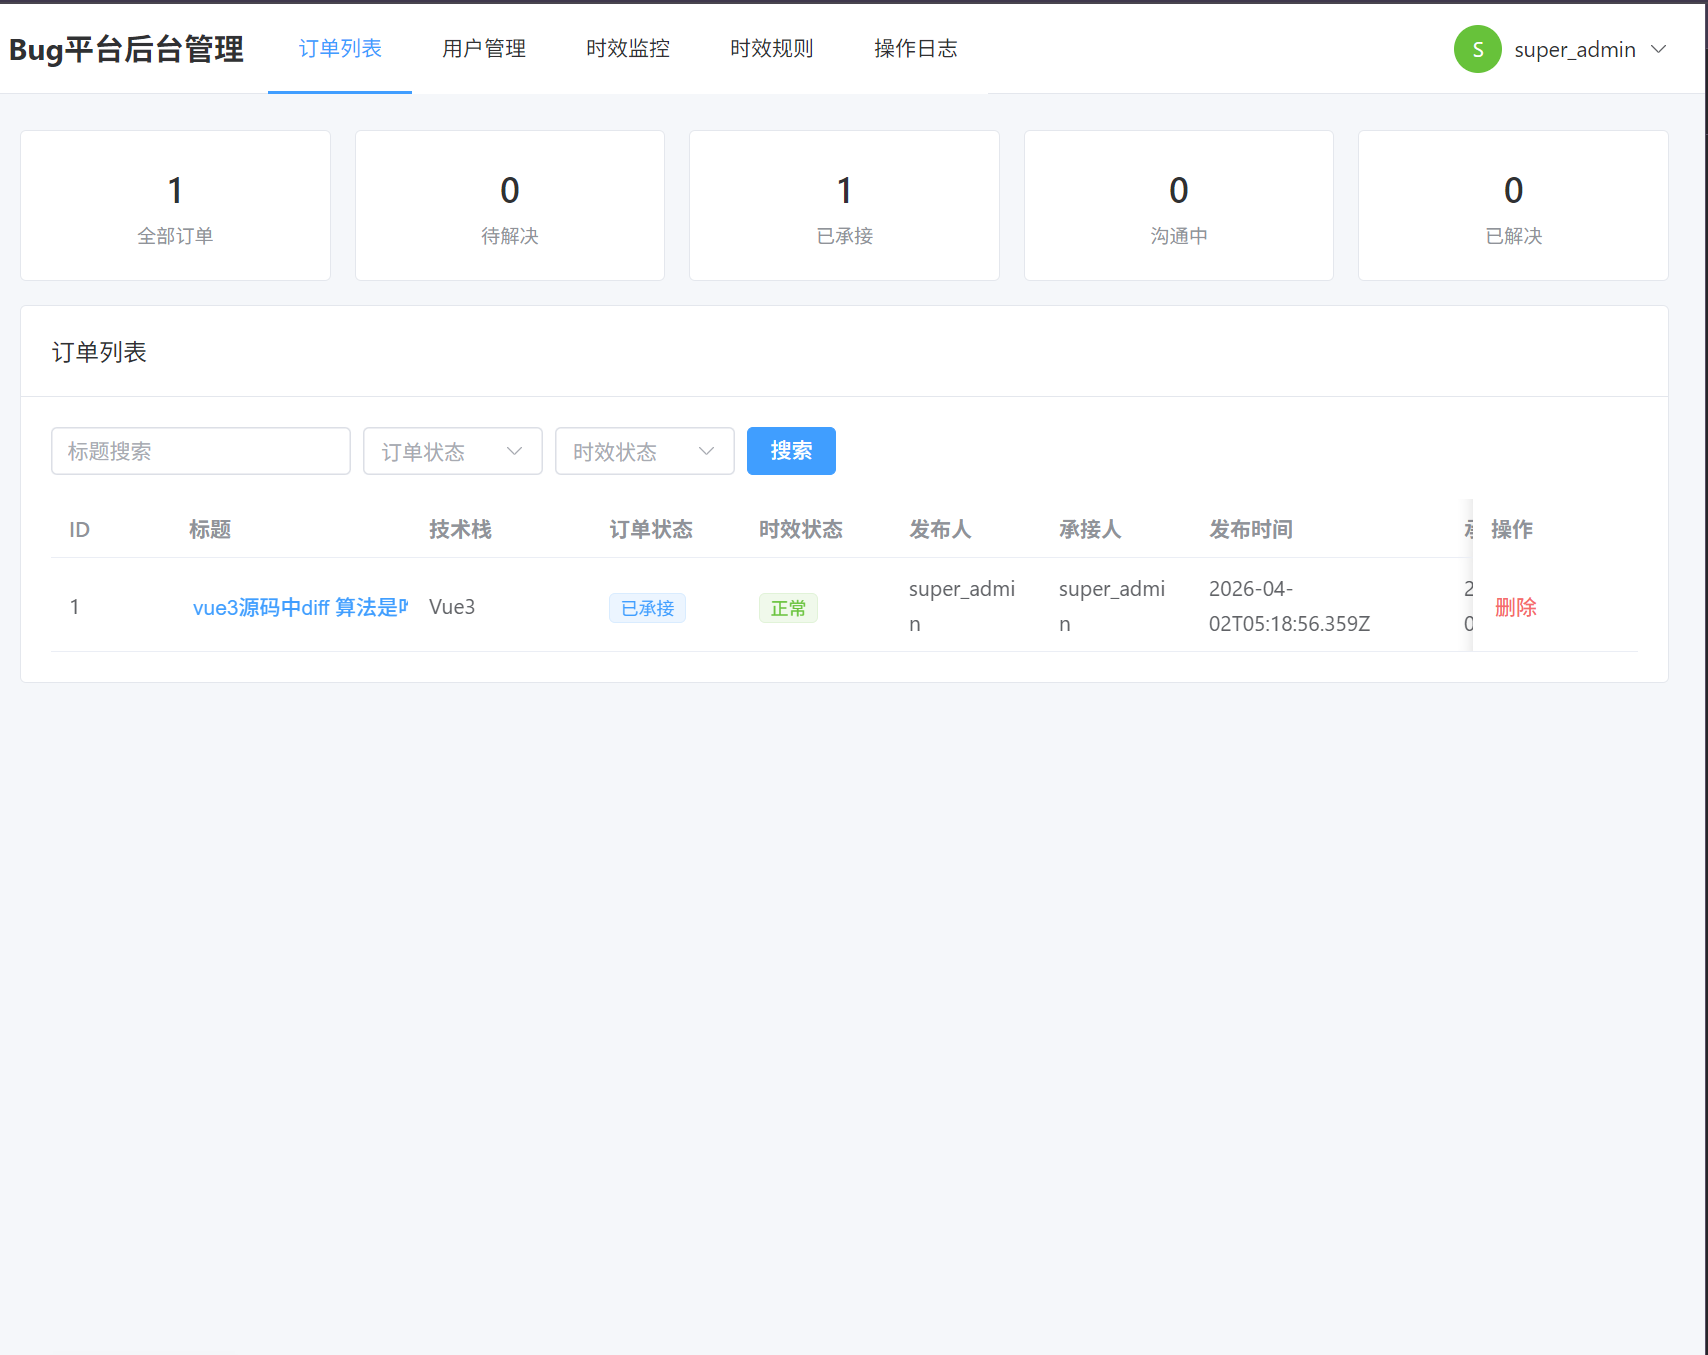
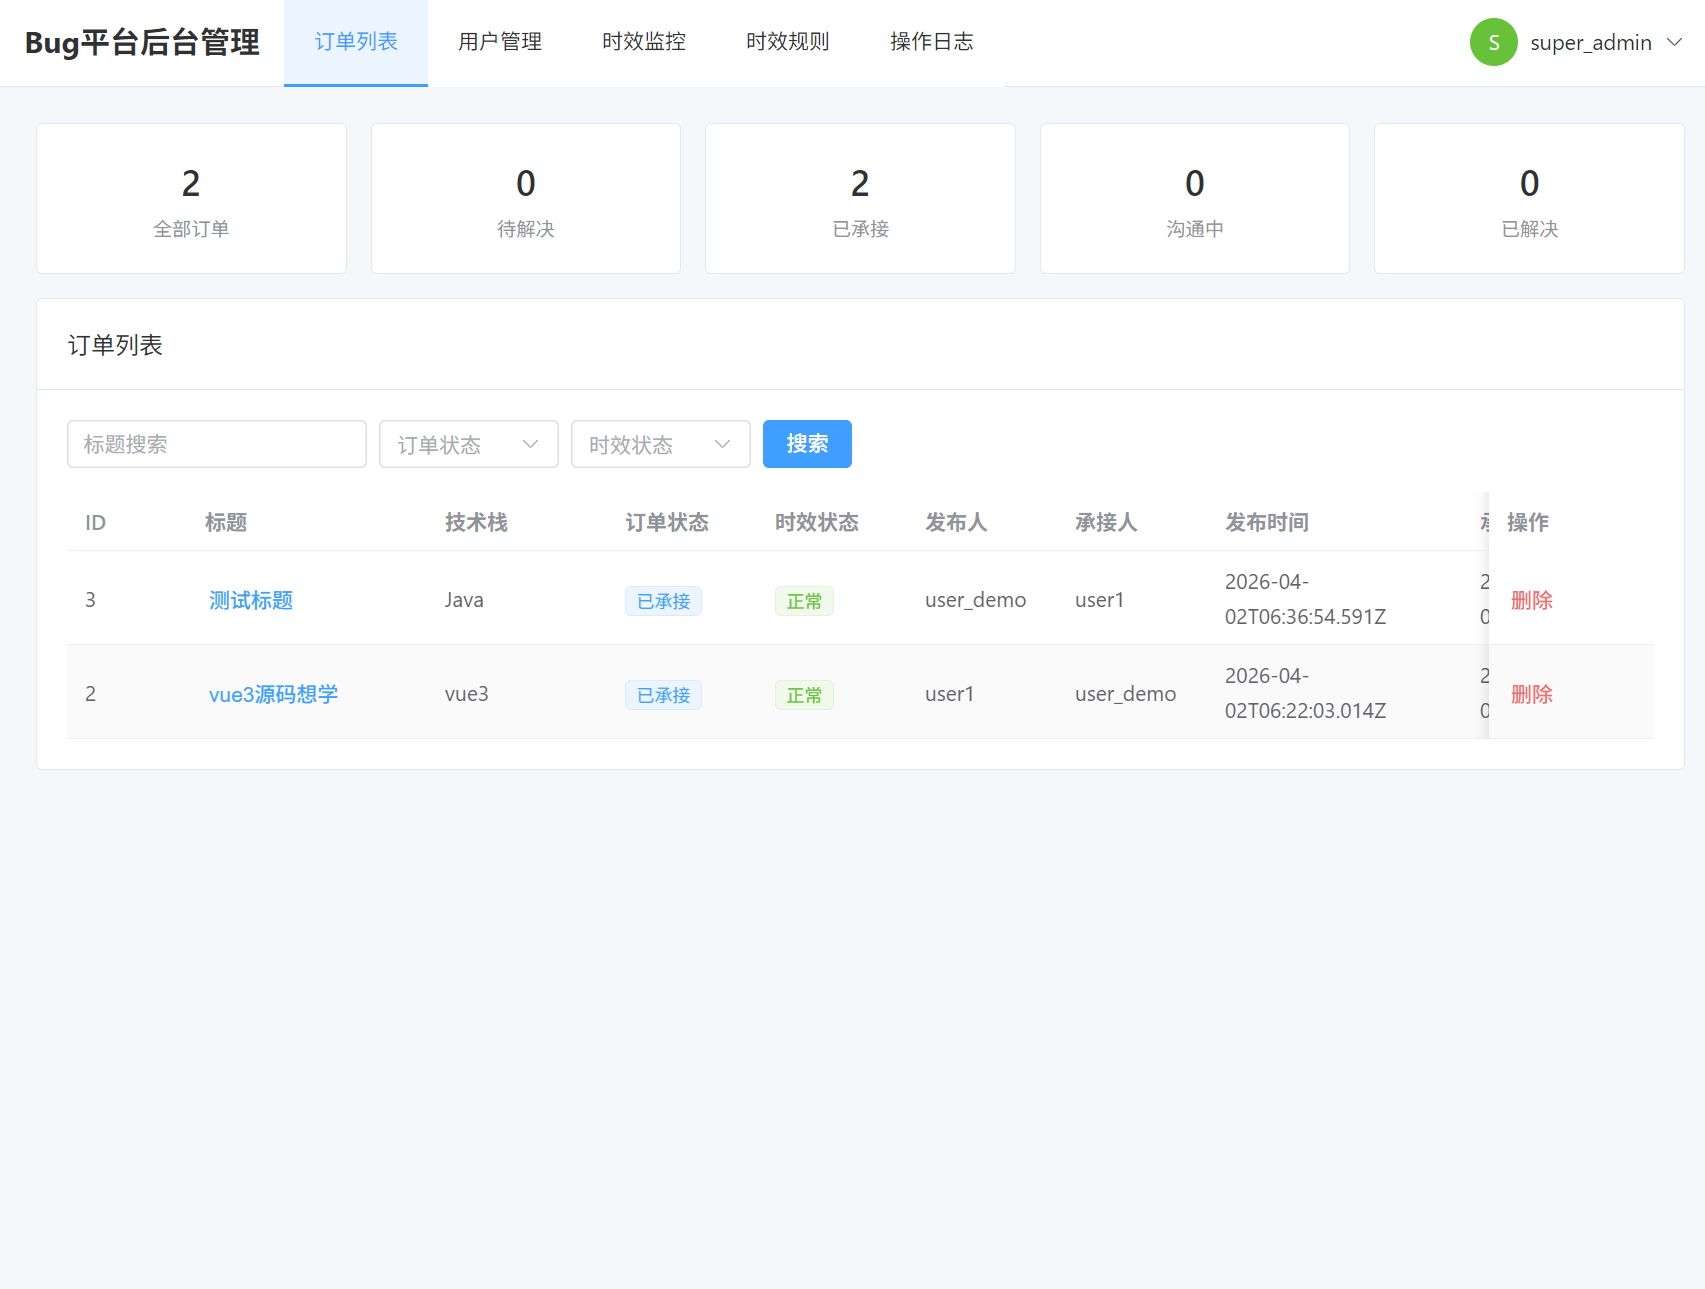
feat: any docx

diff --git a/packages/fe-admin/src/views/OrderList.vue b/packages/fe-admin/src/views/OrderList.vue
@@ -9,7 +9,7 @@ import { ElMessage, ElMessageBox } from 'element-plus'
 const list = ref<AdminOrderItem[]>([])
 const total = ref(0)
 const page = ref(1)
-const pageSize = ref(20)
+const pageSize = ref(5)
 const loading = ref(false)
 const keyword = ref('')
 const statusFilter = ref<number | ''>('')

diff --git a/packages/fe-admin/src/views/LogList.vue b/packages/fe-admin/src/views/LogList.vue
@@ -7,7 +7,7 @@ import { OperationType } from '@bug/shared'
 const list = ref<OperationLogItem[]>([])
 const total = ref(0)
 const page = ref(1)
-const pageSize = ref(20)
+const pageSize = ref(5)
 const loading = ref(false)
 const bugIdFilter = ref('')
 const operatorIdFilter = ref<number | ''>('')

diff --git a/essay/2026-04-02-defense.md b/essay/2026-04-02-defense.md
@@ -1,0 +1,201 @@
+# 面向开发者的 Bug 协作平台（答辩稿）
+
+> 学生：曹黎明  
+> 专业：计算机科学与技术  
+> 题目：面向开发者的 bug 协作平台的设计开发
+
+---
+
+## 1. 开场（30 秒）
+
+各位老师好，我的毕业设计题目是《面向开发者的 bug 协作平台的设计开发》。  
+本项目聚焦一个现实痛点：开发者在跨项目 Bug 处理时，常出现匹配效率低、经验难复用、线上沟通难落地的问题。  
+我实现了一个“用户端 + 管理端 + 后端服务 + 共享包”的完整平台，并围绕“线上匹配 + 线下协作 + 人工运营”进行了工程化落地。
+
+---
+
+## 2. 研究背景与目标（1 分钟）
+
+### 2.1 背景问题
+
+- 现有工具（如 Issues）更偏项目内协作，不适合跨项目 Bug 对接。
+- 纯社区问答缺少状态流转、承接关系和时效治理。
+- 线上沟通无法覆盖真实调试场景，落地效率偏低。
+
+### 2.2 本项目目标
+
+- 让用户可以发布、承接、跟进 Bug；
+- 让管理员可以做时效治理、人工介入、日志审计；
+- 保证系统在可维护、可扩展的前提下可落地运营。
+
+---
+
+## 3. 系统总体方案（2 分钟）
+
+### 3.1 技术架构
+
+- 前端：Vue3 + Vite + Pinia + Vue Router  
+- 后端：NestJS + TypeORM + MySQL + JWT  
+- 工程化：pnpm + Turbo（monorepo）  
+- 共享层：`@bug/shared` 统一类型、枚举和响应结构
+
+### 3.2 多端职责
+
+- `fe-h5`：普通用户侧，负责发布/承接/列表/详情/个人中心  
+- `fe-admin`：运营治理侧，负责订单监管、用户管理、时效规则、操作日志  
+- `be-main`：统一业务服务层，提供 API、鉴权、定时任务与数据持久化
+
+### 3.3 为什么采用 monorepo
+
+- 前后端共享类型，降低联调成本；
+- 多包统一依赖与构建，改动链路更清晰；
+- 便于后续扩展新端或新模块。
+
+---
+
+## 4. 核心业务流程（2 分钟）
+
+### 4.1 用户侧（H5）
+
+1. 登录并获得 JWT；  
+2. 发布 Bug（标题、技术栈、描述、预期效果）；  
+3. 其他用户承接（仅 `PENDING` 可承接）；  
+4. 进入沟通状态并更新进度；  
+5. 形成“我发布的/我承接的”闭环记录。
+
+### 4.2 管理侧（Admin）
+
+1. 管理员登录并进入后台；  
+2. 查看订单列表与时效状态；  
+3. 配置时效规则（预警/超期小时）；  
+4. 对异常订单做人工介入；  
+5. 在操作日志中完成审计追踪。
+
+### 4.3 风控闭环
+
+- 定时任务每 5 分钟扫描符合规则的订单；
+- 将订单标记为正常/预警/超期；
+- 运营按状态集中处理，关键操作全留痕。
+
+---
+
+## 5. 关键实现亮点（3 分钟）
+
+### 5.1 鉴权与权限分层
+
+- JWT 无状态鉴权，前端统一携带 `Authorization: Bearer <token>`；
+- 后端 `JwtStrategy + Guard` 完成身份校验；
+- `RolesGuard` 完成角色级权限控制（`USER` / `ADMIN` / `SUPER_ADMIN`）。
+
+### 5.2 Bug 列表高效筛选
+
+- 支持技术栈、状态、时效状态、关键词、分页组合筛选；
+- 采用 TypeORM QueryBuilder 动态拼接条件；
+- 对高频字段建立索引，保障查询性能。
+
+### 5.3 时效监控任务
+
+- 基于 `@nestjs/schedule` 定时执行；
+- 规则配置化（`warnHour`、`expireHour`）；
+- 自动计算并更新 `time_status`，支撑运营治理。
+
+### 5.4 可追溯审计
+
+- 发布、承接、状态变更、人工介入等关键动作写入 `operation_log`；
+- 支持按操作人、类型、时间筛选；
+- 满足后续纠纷处理和运营审计需求。
+
+---
+
+## 6. 数据库设计（1 分钟）
+
+核心表共 4 张：
+
+- `user`：账号、角色、状态、联系方式  
+- `bug`：发布/承接关系、状态、时效状态、备注  
+- `operation_log`：关键操作日志  
+- `time_rule`：时效规则配置
+
+关系特点：
+
+- `user` 与 `bug` 一对多（发布/承接）；
+- `bug` 与 `operation_log` 一对多；
+- `time_rule` 通过状态类型驱动 `bug` 的时效计算。
+
+---
+
+## 7. 测试与结果（1.5 分钟）
+
+### 7.1 测试覆盖
+
+- 功能测试：注册登录、发布承接、状态流转、后台管理；
+- 流程测试：从发布到人工介入全链路；
+- 权限测试：普通用户、管理员、超级管理员边界；
+- 时效测试：预警/超期标记准确性；
+- 性能测试：并发接口与大数据筛选；
+- 兼容性测试：多浏览器与多终端访问。
+
+### 7.2 结果总结
+
+- 核心流程可闭环执行；
+- 权限控制有效；
+- 定时任务稳定运行；
+- 具备上线后的运营治理基础能力。
+
+---
+
+## 8. 创新点与不足（1 分钟）
+
+### 8.1 创新点
+
+- 将“社区匹配 + 人工运营 + 时效治理”融合到同一平台；
+- 不是仅做信息发布，而是做可追踪、可干预的协作闭环；
+- 通过共享包与 monorepo 强化前后端一致性。
+
+### 8.2 当前不足
+
+- 社群联动仍偏人工，自动化通知不足；
+- 数据分析维度还不够深；
+- 生产级高可用架构仍需进一步增强。
+
+---
+
+## 9. 后续工作展望（40 秒）
+
+- 接入微信/QQ 机器人，自动提醒与半自动运营；
+- 引入 Redis 与更细粒度索引优化查询性能；
+- 增加统计看板（承接率、超期率、技术栈热度）；
+- 探索会员制与服务费等商业模式。
+
+---
+
+## 10. 结束语（20 秒）
+
+本项目完成了从需求分析、架构设计到实现测试的全流程实践。  
+通过该课题，我系统掌握了 Vue3 + NestJS 全栈开发、monorepo 工程化和可运营后台设计方法。  
+我的汇报完毕，感谢各位老师指正。
+
+---
+
+## 附：答辩高频问答（可直接背诵）
+
+### Q1：为什么不用微前端？
+
+当前核心目标是“高效复用与快速落地”，monorepo + shared 已满足；微前端更适合多团队独立部署场景，当前阶段引入会增加运行时复杂度与运维成本。
+
+### Q2：为什么选择 NestJS？
+
+NestJS 模块化和依赖注入能力强，便于按 User/Auth/Bug/Admin 拆分；同时与 TypeScript 配合好，适合多人协作和后期维护。
+
+### Q3：时效监控为什么用定时任务，不用实时？
+
+该业务对秒级实时性要求不高，采用“每 5 分钟扫描”可显著降低系统复杂度和资源消耗，并满足运营处理时效。
+
+### Q4：系统安全性如何保证？
+
+采用 JWT 鉴权、角色守卫、参数校验、密码加密存储，并对关键操作进行日志留痕，形成“认证 + 授权 + 审计”三层防护。
+
+### Q5：如果用户量增大，如何扩展？
+
+前端可静态化 + CDN，后端可服务集群化，数据库做主从和读写分离；热点查询可加 Redis 缓存，并继续优化索引与分页策略。
+

diff --git a/essay/2026-04-02.md b/essay/2026-04-02.md
@@ -633,9 +633,13 @@ request.interceptors.response.use(
   状态更新：发布人/承接人可选择“沟通中”“已解决”，POST /api/bug/:id/status 传 UpdateStatusDto（status、可选 operationNote），成功后无刷新更新详情。
   个人 Bug 记录：调用 GET /api/order/my，传参 type=published 或 type=taken 分别获取“我发布的”“我承接的”列表（分页）。
 
-![图7-3-1 用户端 Bug 发布页面截图](./figures/img4.png)
+![图7-3-1 用户端 Bug 发布页面截图](./figures/fe-h5/push-new.png)
 
-![图7-3-2 用户端 Bug 详情与承接页面截图](./figures/img5.png)
+![图7-3-2 用户端 Bug 详情与承接页面截图](./figures/fe-h5/push-detail.png)
+
+![图7-3-3 用户端登录页面截图](./figures/fe-h5/user-login.png)
+
+![图7-3-4 用户端注册页面截图](./figures/fe-h5/user-register.png)
   
 
 ### 7.4 用户端：Bug 列表与筛选
@@ -645,7 +649,7 @@ request.interceptors.response.use(
   后端 BugService.findList 使用 TypeORM 的 where 与 createQueryBuilder 拼接条件，关键词用 LIKE 匹配 title、description，分页用 skip/take，返回 { list, total, page, pageSize }。
   前端用 list 渲染表格，用 total 与 pageSize 渲染分页组件；点击行跳转 /bug/:id 查看详情，详情请求 GET /api/bug/:id 获取完整信息与发布人/承接人，富文本用 v-html 或富文本组件回显。
 
-![图7-4-1 用户端 Bug 列表筛选页面截图](./figures/img6.png)
+![图7-4-1 用户端 Bug 列表筛选页面截图](./figures/fe-h5/market-status.png)
   
 
 ### 7.5 管理端实现
@@ -656,6 +660,10 @@ request.interceptors.response.use(
   用户管理：GET /api/admin/users 分页与筛选，禁用/启用、创建用户、软删除等调用对应接口，敏感操作写操作日志。
   运营日志：GET /api/admin/operation-logs（仅超级管理员），支持按 bugId、操作人、操作类型、开始/结束时间、分页筛选，展示 operator、operationType、operationContent、operationTime。
   时效规则配置：GET /api/admin/time-rules 展示规则列表（含启用/禁用），超级管理员可 POST 新增、PUT 编辑、PUT :id/enable 启用/禁用；定时任务仅处理 is_enable=1 的规则。
+
+![图7-5-1 管理端用户角色管理页面截图](./figures/fe-admin/user-role.png)
+
+![图7-5-2 管理端用户状态管理页面截图](./figures/fe-admin/user-status.png)
 
 管理端权限控制核心代码如下。该逻辑根据路由元信息中的角色列表进行鉴权，实现了页面级访问控制：
 
@@ -684,11 +692,11 @@ router.beforeEach(async (to, _from, next) => {
 
 **图 7-2 管理端核心页面示意图（订单列表/时效规则/操作日志）**
 
-![图7-2-1 管理端订单列表页面截图](./figures/img1.png)
+![图7-2-1 管理端订单列表页面截图](./figures/fe-admin/order.png)
 
-![图7-2-2 管理端时效规则页面截图](./figures/img2.png)
+![图7-2-2 管理端时效规则页面截图](./figures/fe-admin/expired-rule.png)
 
-![图7-2-3 管理端操作日志页面截图](./figures/img3.png)
+![图7-2-3 管理端操作日志页面截图](./figures/fe-admin/operate-log.png)
   
 
 ---
